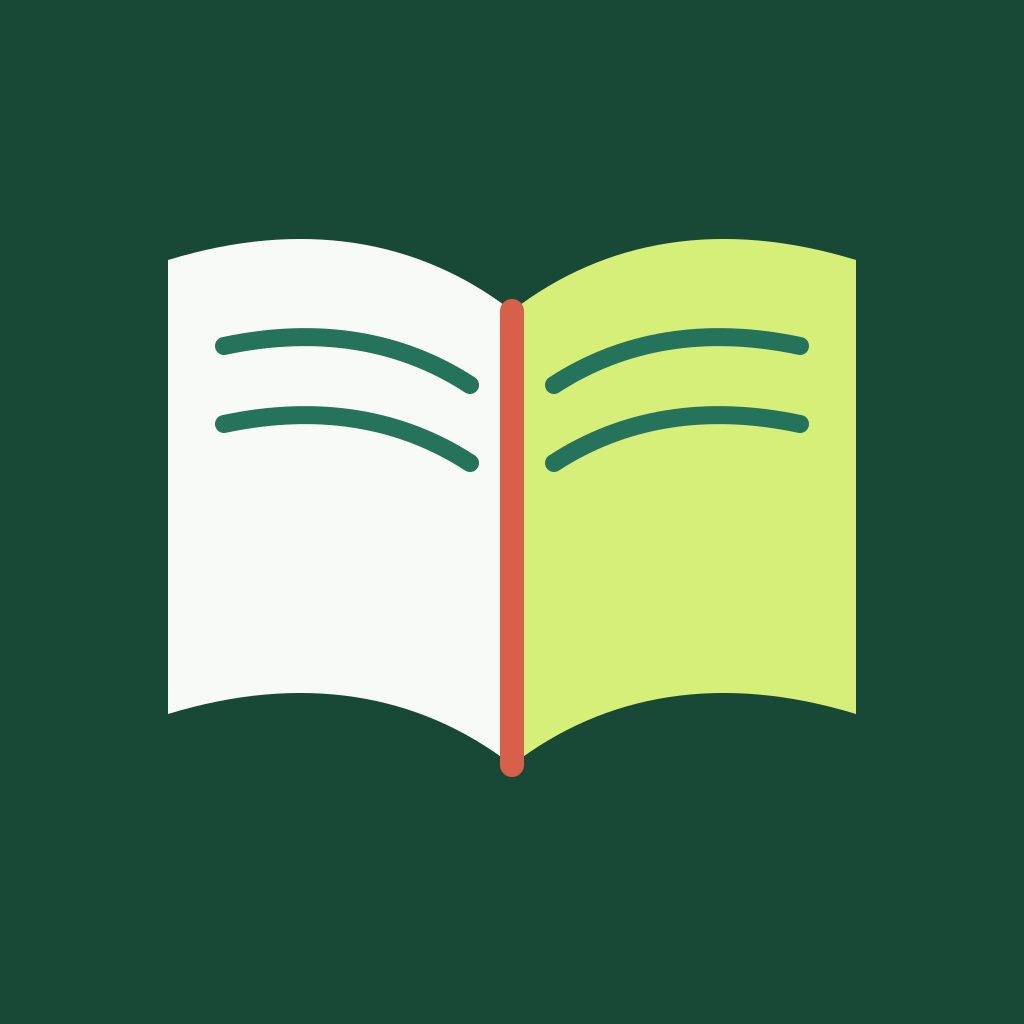
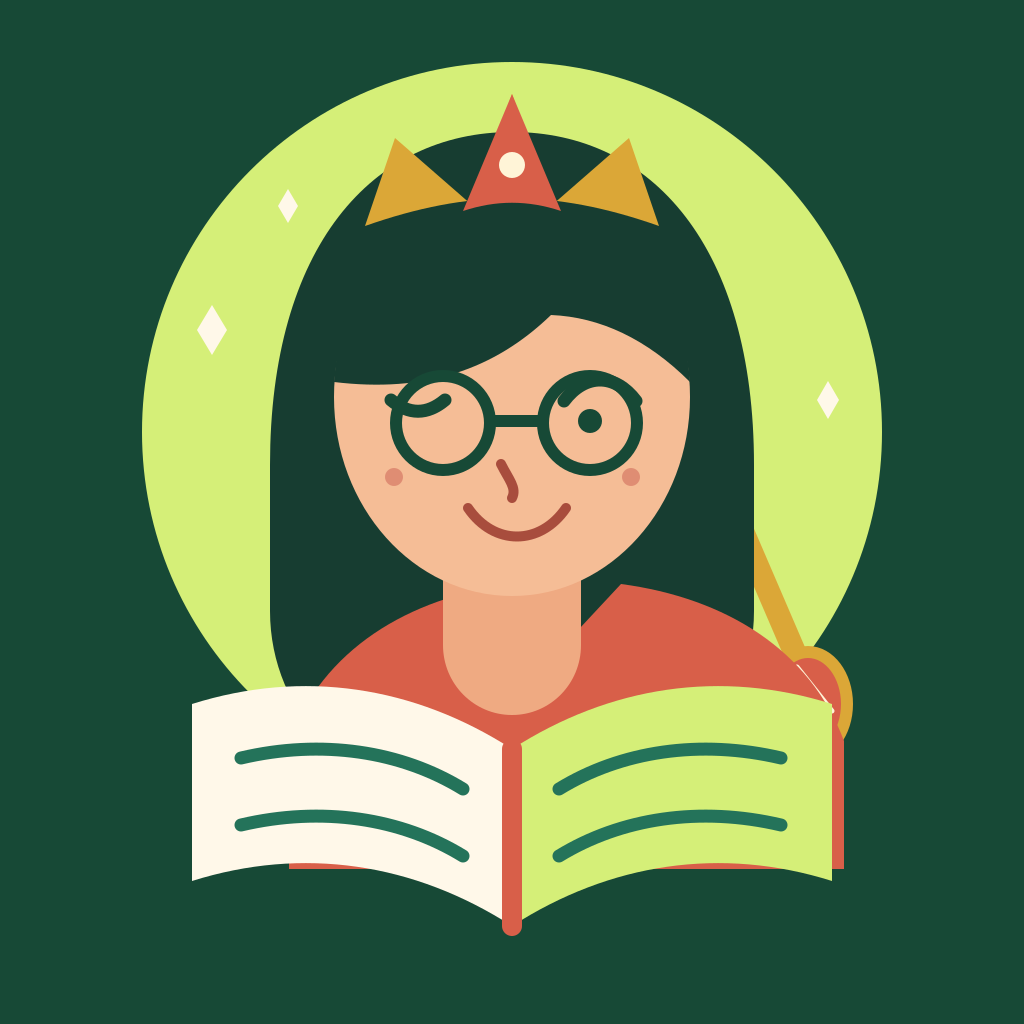
6th commit

diff --git a/components/StudyDashboard.tsx b/components/StudyDashboard.tsx
@@ -1,7 +1,8 @@
 'use client';
 
 import { useEffect, useState } from 'react';
-import { ArrowRight, ArrowUpRight, BadgeCheck, BookOpenCheck, BookOpenText, ChartNoAxesColumnIncreasing, CircleHelp, ClipboardList, House, Sparkles, SpellCheck, Volume2, X } from 'lucide-react';
+import Image from 'next/image';
+import { ArrowRight, ArrowUpRight, BadgeCheck, BookOpenText, ChartNoAxesColumnIncreasing, CircleHelp, ClipboardList, House, Menu, Sparkles, SpellCheck, Volume2, X } from 'lucide-react';
 import { curriculum, type Module, type Question } from '@/lib/curriculum';
 import { ACTIVITY_QUESTION_COUNT, buildActivityQuestionSet, getActivityQuestionCount } from '@/lib/questionBank';
 import { speakSpellingWord } from '@/lib/speech';
@@ -9,6 +10,7 @@ import { getSpellingWords, shuffleSpellingWords, spellingLevels, type SpellingLe
 import { getVocabularyTerms, vocabularySubjects } from '@/lib/vocabulary';
 
 type ActivityMode = 'practice' | 'assignment' | 'assessment' | 'quiz';
+type DashboardView = 'overview' | 'spelling' | 'vocabulary' | 'parent';
 type Progress = Record<string, { attempts: number; best: number; last: number; totalScore?: number }>;
 type ActivityRecord = { id: string; moduleId: string; moduleTitle: string; subject: string; mode: ActivityMode | 'spelling'; score: number; correct: number; total: number; completedAt: string; detail?: string };
 type StudySession = { module: Module; mode: ActivityMode; questions: Question[]; index: number; correct: number; choice: string | null; checked: boolean; finished?: boolean; finalScore?: number };
@@ -55,7 +57,8 @@ function getPeriodLabel(periodId: string) {
 export default function StudyDashboard() {
   const [periodId, setPeriodId] = useState(curriculum[0].id);
   const [subject, setSubject] = useState('All subjects');
-  const [view, setView] = useState<'overview' | 'spelling' | 'vocabulary' | 'parent'>('overview');
+  const [view, setView] = useState<DashboardView>('overview');
+  const [isMobileMenuOpen, setIsMobileMenuOpen] = useState(false);
   const [progress, setProgress] = useState<Progress>({});
   const [completed, setCompleted] = useState<string[]>([]);
   const [activityRecords, setActivityRecords] = useState<ActivityRecord[]>([]);
@@ -77,6 +80,22 @@ export default function StudyDashboard() {
     return () => window.cancelAnimationFrame(frame);
   }, []);
 
+  useEffect(() => {
+    if (!isMobileMenuOpen) return;
+
+    const closeOnEscape = (event: KeyboardEvent) => {
+      if (event.key === 'Escape') setIsMobileMenuOpen(false);
+    };
+    const previousOverflow = document.body.style.overflow;
+    document.body.style.overflow = 'hidden';
+    window.addEventListener('keydown', closeOnEscape);
+
+    return () => {
+      document.body.style.overflow = previousOverflow;
+      window.removeEventListener('keydown', closeOnEscape);
+    };
+  }, [isMobileMenuOpen]);
+
   const period = curriculum.find((item) => item.id === periodId) ?? curriculum[0];
   const modules = period.modules.filter((module) => subject === 'All subjects' || module.domain === subject || (subject === 'ELA' && module.domain.includes('ELA')));
   const totalAttempts = activityRecords.length || Object.values(progress).reduce((sum, item) => sum + item.attempts, 0);
@@ -97,6 +116,11 @@ export default function StudyDashboard() {
   function startActivity(module: Module, mode: ActivityMode) {
     const questions = buildActivityQuestionSet(module.id, ACTIVITY_QUESTION_COUNT);
     if (questions.length) setSession({ module, mode, questions, index: 0, correct: 0, choice: null, checked: false });
+  }
+
+  function navigateToView(nextView: DashboardView) {
+    setView(nextView);
+    setIsMobileMenuOpen(false);
   }
 
   function finishActivity(correct: number, count: number) {
@@ -187,20 +211,28 @@ export default function StudyDashboard() {
 
   return (
     <main className="app-shell">
-      <aside className="sidebar">
-        <a className="brand" href="#home" onClick={() => setView('overview')}><span className="brand-mark"><BookOpenCheck size={19} strokeWidth={1.8} /></span><span>Aarna<span className="brand-light">Study</span></span></a>
+      <aside className={`sidebar${isMobileMenuOpen ? ' mobile-open' : ''}`}>
+        <a className="brand" href="#home" onClick={() => navigateToView('overview')}><span className="brand-mark"><Image src="/aarna-muse.svg" alt="" width={40} height={40} priority /></span><span>Aarna <span className="brand-light">Study</span></span></a>
         <div className="school-label">JONAS SALK MIDDLE SCHOOL</div>
-        <nav className="side-nav" aria-label="Main navigation">
-          <button className={view === 'overview' ? 'nav-link active' : 'nav-link'} onClick={() => setView('overview')}><House className="nav-icon" size={17} strokeWidth={1.8} />My learning</button>
-          <button className={view === 'spelling' ? 'nav-link active' : 'nav-link'} onClick={() => { setView('spelling'); startSpellingRound('easy'); }}><SpellCheck className="nav-icon" size={17} strokeWidth={1.8} />Spelling bee</button>
-          <button className={view === 'vocabulary' ? 'nav-link active' : 'nav-link'} onClick={() => { setView('vocabulary'); setRevealedVocabulary({}); }}><BookOpenText className="nav-icon" size={17} strokeWidth={1.8} />Vocabulary</button>
-          <button className={view === 'parent' ? 'nav-link active' : 'nav-link'} onClick={() => setView('parent')}><ChartNoAxesColumnIncreasing className="nav-icon" size={17} strokeWidth={1.8} />Progress report</button>
+        <nav className="side-nav" id="study-main-navigation" aria-label="Main navigation">
+          <button className={view === 'overview' ? 'nav-link active' : 'nav-link'} onClick={() => navigateToView('overview')}><House className="nav-icon" size={17} strokeWidth={1.8} />My learning</button>
+          <button className={view === 'spelling' ? 'nav-link active' : 'nav-link'} onClick={() => { navigateToView('spelling'); startSpellingRound('easy'); }}><SpellCheck className="nav-icon" size={17} strokeWidth={1.8} />Spelling bee</button>
+          <button className={view === 'vocabulary' ? 'nav-link active' : 'nav-link'} onClick={() => { navigateToView('vocabulary'); setRevealedVocabulary({}); }}><BookOpenText className="nav-icon" size={17} strokeWidth={1.8} />Vocabulary</button>
+          <button className={view === 'parent' ? 'nav-link active' : 'nav-link'} onClick={() => navigateToView('parent')}><ChartNoAxesColumnIncreasing className="nav-icon" size={17} strokeWidth={1.8} />Progress report</button>
         </nav>
         <div className="sidebar-bottom"><span className="avatar">A</span><span><strong>Aarna</strong><small>7th grade</small></span><span className="local-badge" title="Saved only on this device">●</span></div>
       </aside>
+      {isMobileMenuOpen && <button className="mobile-nav-scrim" type="button" aria-label="Close navigation" onClick={() => setIsMobileMenuOpen(false)} />}
 
       <section className="main-area">
-        <header className="topbar"><span>Aarna <span className="crumb">/ {view === 'spelling' ? 'Spelling bee' : view === 'vocabulary' ? 'Vocabulary' : view === 'parent' ? 'Progress report' : 'My learning'}</span></span><span className="today-label">A little practice goes a long way</span></header>
+        <header className="topbar">
+          <div className="topbar-leading">
+            <button className="mobile-menu-button" type="button" aria-label="Open main menu" aria-controls="study-main-navigation" aria-expanded={isMobileMenuOpen} onClick={() => setIsMobileMenuOpen(true)}><Menu size={20} /></button>
+            <a className="mobile-brand" href="#home" onClick={() => navigateToView('overview')}><Image src="/aarna-muse.svg" alt="" width={38} height={38} priority /><span>Aarna <strong>Study</strong></span></a>
+            <span className="desktop-breadcrumb">Aarna <span className="crumb">/ {view === 'spelling' ? 'Spelling bee' : view === 'vocabulary' ? 'Vocabulary' : view === 'parent' ? 'Progress report' : 'My learning'}</span></span>
+          </div>
+          <span className="today-label">A little practice goes a long way</span>
+        </header>
         <div className="content-wrap">
           {view === 'vocabulary' && <section className="vocabulary-view">
             <p className="eyebrow">WORDS FROM YOUR STUDY PLAN</p>

diff --git a/app/globals.css b/app/globals.css
@@ -55,6 +55,8 @@ button:focus-visible, select:focus-visible, input:focus-visible, summary:focus-v
 }
 
 .app-shell { min-height: 100vh; }
+.topbar-leading { display: flex; min-width: 0; align-items: center; gap: 12px; }
+.mobile-menu-button, .mobile-brand { display: none; }
 .sidebar {
   position: fixed;
   z-index: 2;
@@ -69,6 +71,7 @@ button:focus-visible, select:focus-visible, input:focus-visible, summary:focus-v
 }
 .brand { display: flex; align-items: center; gap: 10px; padding: 0 8px; font-size: 19px; font-weight: 750; letter-spacing: 0; }
 .brand-mark { display: grid; width: 36px; height: 36px; place-items: center; border-radius: 9px 9px 9px 3px; background: #d5ef78; color: #173b2c; }
+.brand-mark img { width: 100%; height: 100%; border-radius: inherit; object-fit: cover; }
 .brand-light { color: #d5ef78; font-weight: 500; }
 .school-label { margin: 47px 8px 14px; color: #a9beb3; font-size: 9px; font-weight: 750; letter-spacing: 0; }
 .side-nav { display: grid; gap: 5px; }
@@ -258,18 +261,27 @@ h1, .spelling-view h1, .report-view h1 { margin-bottom: 8px; font-family: "Fraun
   .period-tab { flex-direction: column; align-items: flex-start; justify-content: center; }
 }
 
-@media (max-width: 700px) {
-  .sidebar { position: sticky; inset: 0 0 auto; width: 100%; height: auto; padding: 10px 14px 8px; border-right: 0; border-bottom: 1px solid var(--line); }
-  .brand { padding: 0 2px; font-size: 16px; }
-  .brand-mark { width: 30px; height: 30px; }
-  .school-label, .sidebar-bottom { display: none; }
-  .side-nav { grid-template-columns: repeat(4, minmax(0, 1fr)); gap: 3px; margin-top: 8px; }
-  .nav-link { min-height: 38px; justify-content: center; gap: 6px; padding: 0 4px; font-size: 10px; }
-  .nav-icon { width: auto; font-size: 13px; }
+@media (max-width: 760px), (max-height: 500px) and (pointer: coarse) {
+  .sidebar { position: fixed; z-index: 9; inset: 0 auto 0 0; width: min(84vw, 320px); height: 100vh; height: 100dvh; padding: calc(22px + env(safe-area-inset-top)) 18px calc(20px + env(safe-area-inset-bottom)); border-right: 1px solid #17372e; border-bottom: 0; transform: translateX(-105%); visibility: hidden; pointer-events: none; transition: transform .22s ease, visibility 0s linear .22s; }
+  .sidebar.mobile-open { transform: translateX(0); visibility: visible; pointer-events: auto; transition: transform .22s ease; }
+  .mobile-nav-scrim { position: fixed; z-index: 8; inset: 0; width: 100%; height: 100%; border: 0; background: #142e28a8; }
+  .brand { gap: 11px; padding: 0 2px; font-size: 18px; }
+  .brand-mark { width: 42px; height: 42px; border-radius: 11px; }
+  .school-label { display: block; margin: 38px 8px 14px; }
+  .sidebar-bottom { display: flex; }
+  .side-nav { grid-template-columns: 1fr; gap: 7px; margin-top: 0; }
+  .nav-link { min-height: 50px; justify-content: flex-start; gap: 12px; padding: 0 12px; font-size: 13px; }
+  .nav-icon { width: 19px; font-size: 16px; }
   .main-area { margin-left: 0; }
-  .topbar { height: 43px; padding: 0 18px; }
+  .topbar { position: sticky; z-index: 5; top: 0; height: calc(62px + env(safe-area-inset-top)); padding: env(safe-area-inset-top) 16px 0; background: #fafbf7f2; backdrop-filter: blur(12px); }
+  .topbar-leading { gap: 9px; }
+  .mobile-menu-button { display: grid; width: 42px; height: 42px; flex: 0 0 auto; place-items: center; border: 0; border-radius: 8px; background: transparent; color: var(--green-dark); }
+  .mobile-brand { display: flex; min-width: 0; align-items: center; gap: 7px; color: var(--ink); font-size: 14px; font-weight: 750; white-space: nowrap; }
+  .mobile-brand img { width: 36px; height: 36px; border-radius: 9px; object-fit: cover; }
+  .mobile-brand strong { color: var(--green); font-weight: 600; }
+  .desktop-breadcrumb { display: none; }
   .today-label { display: none; }
-  .content-wrap { padding: 30px 18px 48px; }
+  .content-wrap { padding: 26px 18px calc(48px + env(safe-area-inset-bottom)); }
   h1, .spelling-view h1, .report-view h1 { font-size: 31px; }
   .welcome-row { align-items: flex-start; }
   .week-note { display: none; }
@@ -298,6 +310,15 @@ h1, .spelling-view h1, .report-view h1 { margin-bottom: 8px; font-family: "Fraun
   .mode-summary { grid-template-columns: repeat(2, minmax(0, 1fr)); }
   .mode-summary-item:nth-child(2n) { border-right: 0; }
   .mode-summary-item:last-child { grid-column: 1 / -1; }
+  .modal-backdrop { z-index: 12; display: block; padding: 0; background: var(--paper); }
+  .quiz-modal { width: 100%; height: 100vh; height: 100dvh; max-height: none; overflow-y: auto; padding: calc(15px + env(safe-area-inset-top)) 18px calc(18px + env(safe-area-inset-bottom)); border: 0; border-radius: 0; box-shadow: none; }
+  .quiz-header { position: sticky; z-index: 1; top: calc(-15px - env(safe-area-inset-top)); align-items: center; margin: calc(-15px - env(safe-area-inset-top)) -18px 0; padding: calc(15px + env(safe-area-inset-top)) 18px 15px; background: var(--paper); }
+  .quiz-header h2 { font-size: 20px; }
+  .close-button { display: grid; width: 42px; height: 42px; flex: 0 0 auto; place-items: center; border: 0; border-radius: 50%; background: #e9f0e7; color: var(--green-dark); }
+  .quiz-progress { margin-top: 17px; }
+  .question-prompt { font-size: 25px; }
+  .choice-button { min-height: 50px; padding: 9px 12px; font-size: 13px; }
+  .quiz-footer { position: sticky; bottom: calc(-18px - env(safe-area-inset-bottom)); margin: 22px -18px calc(-18px - env(safe-area-inset-bottom)); padding: 15px 18px calc(18px + env(safe-area-inset-bottom)); background: var(--paper); }
 }
 
 @media (prefers-reduced-motion: reduce) {

diff --git a/app/layout.tsx b/app/layout.tsx
@@ -1,11 +1,18 @@
 import './globals.css';
 import '@fontsource-variable/dm-sans';
 import '@fontsource-variable/fraunces';
-import type { Metadata } from 'next';
+import type { Metadata, Viewport } from 'next';
 
 export const metadata: Metadata = {
   title: 'Aarna Study | Grade 7 Learning',
   description: 'Aarna Study: Grade 7 practice, assignments, assessments, quizzes, spelling, and progress.',
+  icons: { icon: '/aarna-muse.svg' },
+};
+
+export const viewport: Viewport = {
+  width: 'device-width',
+  initialScale: 1,
+  viewportFit: 'cover',
 };
 
 export default function RootLayout({ children }: { children: React.ReactNode }) {

diff --git a/scripts/patch-tts-ios.js b/scripts/patch-tts-ios.js
@@ -1,5 +1,5 @@
-const fs = require('node:fs');
-const path = require('node:path');
+const fs = module.require('node:fs');
+const path = module.require('node:path');
 
 module.exports = function patchTtsPlugin(context) {
   const pluginSource = path.join(
